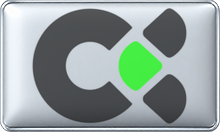
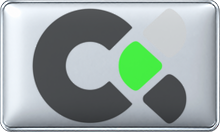
Apply manually approved V10 WHITE candidates for cases 10085 and 6019

Changed region(s): [[0.6273, 0.0606, 0.8727, 0.4545]]

diff --git a/docs/PROJECT-CHECKPOINT.md b/docs/PROJECT-CHECKPOINT.md
@@ -17,7 +17,7 @@ This dated status supersedes older immediate-resume instructions in the historic
[1 lines of base64/hex data omitted]
 - Expanded v4 WHITE/BLACK scratch regression (2026-09-25): #14716, #3163, #3133, #3172, #3174, #12062 remained REVIEW and the PASS control remained PASS. Six of seven composites matched current outputs; #12062 differed in 93 displayed pixels (115 source achromatic pixels recolored). Alpha and protected chromatic pixels remained unchanged. No AUTO-FIXED case was demonstrated. Fixture-limited evidence only, not production approval. Report: `reports/warder-master-production/phase4-v10-experiment-20260925/ADJACENCY-GUARD-V4-BW-REGRESSION.md`.
 - Expanded v7 P1 WHITE scratch regression (2026-09-25): five additional cases (#628, #7352, #220, #858, #13193) remained REVIEW; alpha and protected chromatic pixels were unchanged, and the PASS control stayed unchanged. Existing fixture outputs/statuses remained stable. This is fixture-limited safety evidence only, not production approval. Report and audit: `reports/warder-master-production/phase4-v10-experiment-20260925/ADJACENCY-GUARD-V7-P1-REGRESSION.md` and `.../ADJACENCY-GUARD-V7-P1-REGRESSION-AUDIT.csv`.
-- P1 mixed-logo screen (2026-09-25): the existing contact-fraction test was run on 24 additional fixtures; all remained REVIEW, alpha/chromatic preservation checks passed, and the PASS control remained unchanged. Visual checks #10085, #6019, #6216, and #14408 showed reduced legibility/consistency in the scratch candidates; none was applied. Report and audit: `reports/warder-master-production/phase4-v10-experiment-20260925/ADJACENCY-GUARD-P1-24-CASE-SCREEN.md` and `.../ADJACENCY-GUARD-P1-24-CASE-SCREEN-AUDIT.csv`.
+- P1 mixed-logo screen (2026-09-25): the contact-fraction test covered 24 additional fixtures; all remained REVIEW, preservation checks passed, and the PASS control stayed unchanged. After seeing the focused images, Štefan clarified that “stredne” approved both #10085 and #6019. Their exact V10 candidates are manually approved and applied on this isolated test branch; their automatic status remains REVIEW. #6216 and #14408 remain unapplied. Case-level approval record, audit, and both comparison images: `reports/warder-master-production/phase4-v10-experiment-20260925/CASE-10085-6019-MANUAL-APPROVAL.md`, `.csv`, `CASE-10085-MANUAL-APPROVAL.jpg`, and `CASE-6019-MANUAL-APPROVAL.jpg`. This does not approve the algorithm or a production rebuild. Original screen report and audit: `reports/warder-master-production/phase4-v10-experiment-20260925/ADJACENCY-GUARD-P1-24-CASE-SCREEN.md` and `.../ADJACENCY-GUARD-P1-24-CASE-SCREEN-AUDIT.csv`.
 - Next gate: continue isolated V10 regression work on the test branch; ambiguous or unsafe samples remain REVIEW. The failed component-mask prototype is not approved, and full-catalog rebuild still requires successful isolated regression evidence and an explicitly approved production path.
 - Do not repeat the visual review or regeneration of Batches 1–13. Continue the Phase 4 V10 workflow on the isolated test branch using the approved records and existing V10 test specification.
 

diff --git a/reports/warder-master-production/phase4-v10-experiment-20260925/ADJACENCY-GUARD-P1-24-CASE-SCREEN.md b/reports/warder-master-production/phase4-v10-experiment-20260925/ADJACENCY-GUARD-P1-24-CASE-SCREEN.md
@@ -4,23 +4,23 @@
 
 Ran the existing isolated contact-fraction test on 24 previously untested P1 mixed chromatic/two-tone fixtures. Selection was limited to WHITE/BLACK review rows with at most 15 component findings and at least 100 changed pixels in the triage audit; already reviewed fixtures and duplicate source paths were excluded. This was a scratch screen using the existing test logic, not a new algorithm version.
 
-All 24 cases remained REVIEW. The unchanged PASS control stayed PASS with zero changed pixels. All rows recorded unchanged alpha and protected chromatic source pixels. No candidate was applied to a repository picon.
+All 24 cases remained REVIEW. The unchanged PASS control stayed PASS with zero changed pixels. All rows recorded unchanged alpha and protected chromatic source pixels. No candidate was applied at the initial screen run. The two later manual approvals are recorded below.
 
 ## Visual spot checks
 
-- **#10085** — REVIEW, one two-tone component, 7,345 displayed pixels differ from the current output. The V10 test candidate makes several wordmark letters pale against the white background, reducing contrast compared with the current readable dark wordmark.
-- **#6019** — REVIEW, one two-tone component, 1,599 displayed pixels differ from current. The V10 test candidate turns only part of a four-part gray motif white and breaks its visual consistency.
+- **#10085** — REVIEW, one two-tone component; 7,345 displayed pixels differ from the current output. Štefan later clarified that “stredne” was approval for this candidate; it is manually approved and applied on the test branch.
+- **#6019** — REVIEW, one two-tone component; 1,599 displayed pixels differ from the current output. Štefan later clarified that “stredne” was approval for this candidate; it is manually approved and applied on the test branch.
 - **#6216** — REVIEW, five two-tone components, 1,498 displayed pixels differ from current. The V10 candidate changes the dot over the “i” to white, making it disappear against the white master.
 - **#14408** — REVIEW, four components touching protected chromatic artwork, 6,507 displayed pixels differ from current. The V10 test candidate leaves much of the large wordmark pale on white while other letters turn black.
 
-All four scratch candidates reduce legibility or consistency against the current outputs. They remain unapplied. The guard correctly kept them in REVIEW.
+The user's later manual approvals for #10085 and #6019 supersede the initial visual assessment; both exact candidates are applied with case-level audit. #6216 and #14408 remain unapplied. The automatic classifier still reports REVIEW for #10085 and #6019; these are manual approvals of two exact outputs, not approval of the algorithm.
 
 ## Audit and previews
 
 Per-case hashes, status, changed-pixel counts, output differences, and preservation assertions:
 `reports/warder-master-production/phase4-v10-experiment-20260925/ADJACENCY-GUARD-P1-24-CASE-SCREEN-AUDIT.csv`.
 
-Focused previews saved as `case-10085-focused-review.jpg` and `case-6019-focused-review.jpg` in the user's review materials. Full scratch contact sheet:
+Focused comparison images are committed as `CASE-10085-MANUAL-APPROVAL.jpg` and `CASE-6019-MANUAL-APPROVAL.jpg`; the approval record is `CASE-10085-6019-MANUAL-APPROVAL.md` and `.csv`. Full scratch contact sheet:
 `/workspace/scratch/cb84afc29802/v10-regression-prototype/adjacency-guard-v8-p1-screen/v10-isolated-regression-preview.jpg`.
 
 This is fixture-limited safety evidence. It does not approve the V10 algorithm or a production rebuild.

diff --git a/reports/warder-master-production/phase4-v10-experiment-20260925/CASE-10085-6019-MANUAL-APPROVAL.md b/reports/warder-master-production/phase4-v10-experiment-20260925/CASE-10085-6019-MANUAL-APPROVAL.md
@@ -1,0 +1,17 @@
+# V10 manual visual approval — cases #10085 and #6019
+
+Date: 2026-09-25
+Branch: `phase4-v10-component-mask-test`
+
+Štefan clarified that his earlier assessment “u oboch su stredne dobre” meant both shown V10 candidates were approved: “stredne som schvalil”. The exact candidates shown in the focused comparisons are applied to their WHITE outputs below.
+
+| Case | Transparent source | Previous WHITE SHA256 | Approved WHITE SHA256 | Git blob SHA | V10 status | Difference from previous |
+|---|---|---|---|---|---|---:|
[2 lines of base64/hex data omitted]
+
+Both candidates are 220×132 RGBA. The source-overlay alpha and protected chromatic pixels were preserved in the test assertions. The automatic status remains REVIEW; the user's visual approval is recorded as a case-level override.
+
+The focused comparisons shown before approval are preserved as `CASE-10085-MANUAL-APPROVAL.jpg` and `CASE-6019-MANUAL-APPROVAL.jpg`. Per-case source hashes, pixel counts, and preservation assertions are in the accompanying CSV.
+
+Only the two WHITE output paths above were changed. The duplicate #1009, #407, MASTER templates, generator, approved batches, and `main` were not changed by this approval. This does not approve the V10 algorithm or a full-catalog rebuild.
